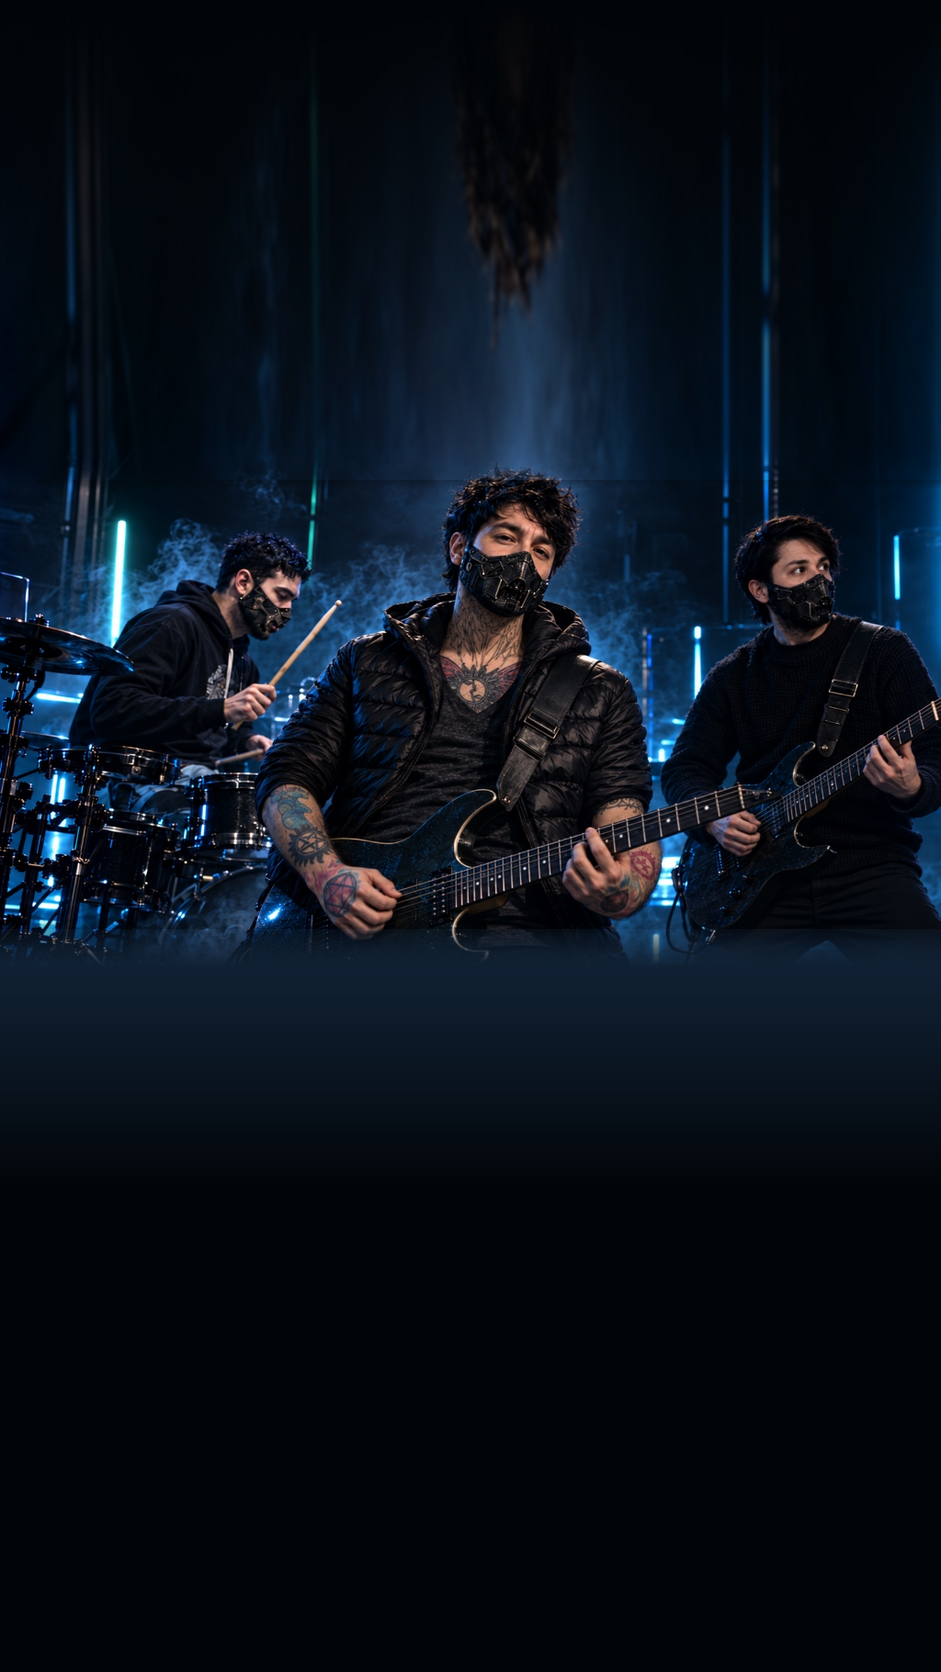
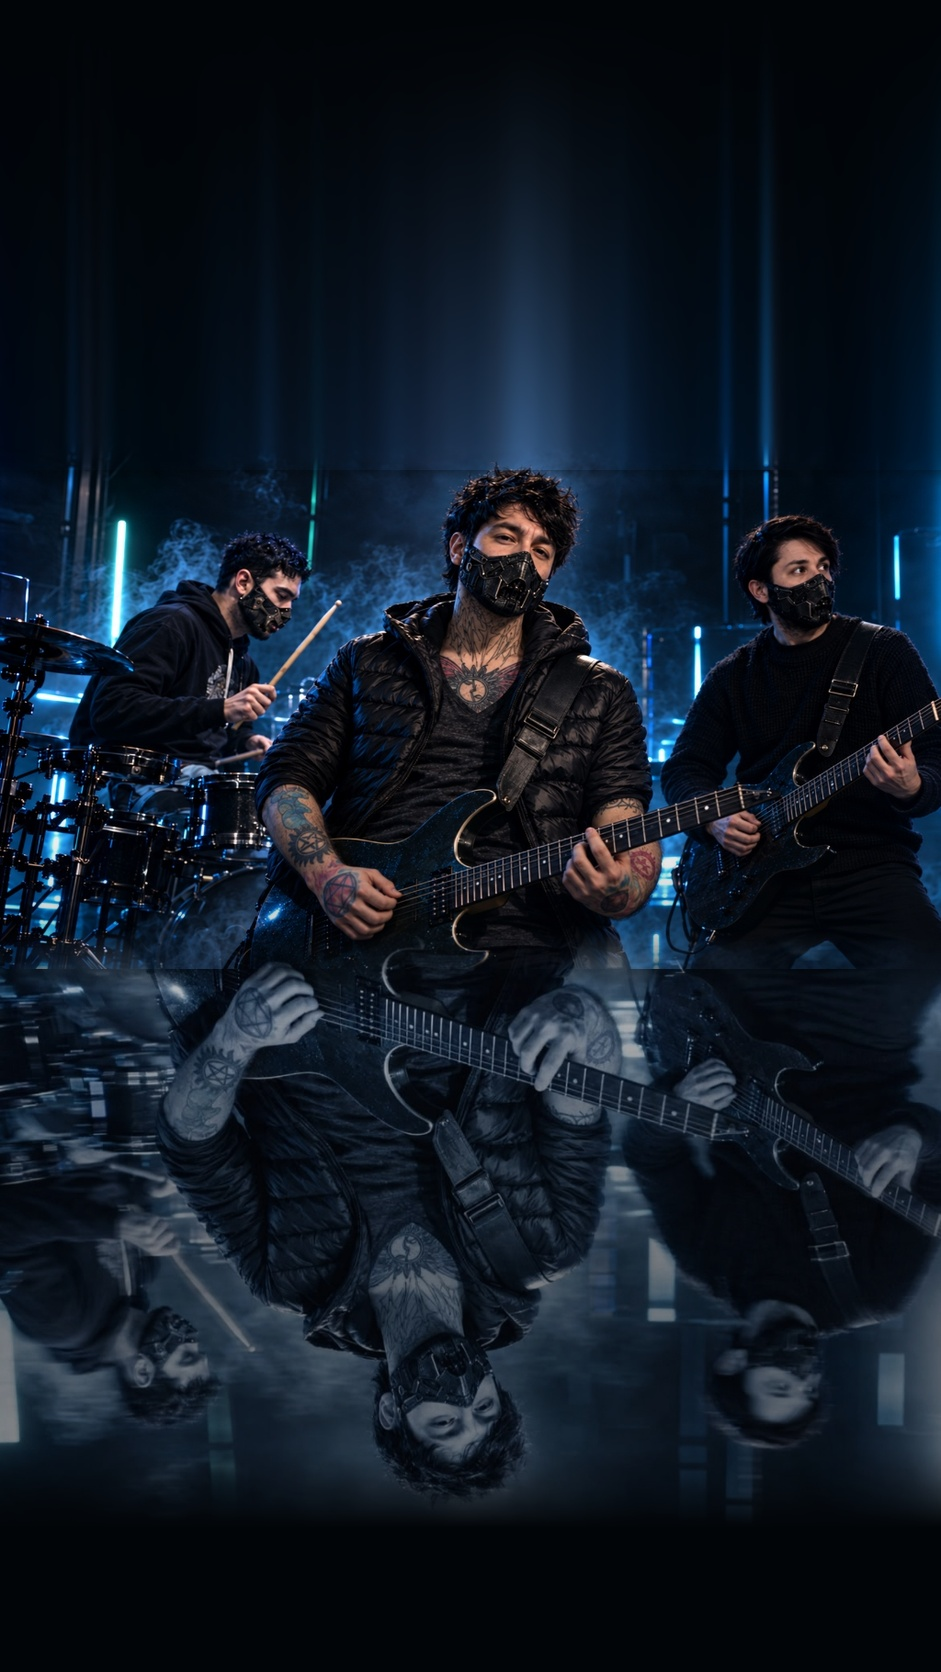
Update mobile hero background with Side B inverted reflection using blue band photo and bump cache to v16

diff --git a/index.html b/index.html
@@ -86,9 +86,9 @@
         <!-- 1. Background Layer: Pure Band Photography without UI elements -->
         <div class="hero-bg-container">
             <picture class="hero-picture">
-                <source media="(max-width: 768px)" srcset="assets/hero_band_mobile.png?v=15.0">
-                <source media="(orientation: portrait) and (max-width: 1024px)" srcset="assets/hero_band_mobile.png?v=15.0">
-                <img src="assets/hero_band.jpg?v=15.0" alt="Suggestive Line Band" class="hero-band-bg">
+                <source media="(max-width: 768px)" srcset="assets/hero_band_mobile.png?v=16.0">
+                <source media="(orientation: portrait) and (max-width: 1024px)" srcset="assets/hero_band_mobile.png?v=16.0">
+                <img src="assets/hero_band.jpg?v=16.0" alt="Suggestive Line Band" class="hero-band-bg">
             </picture>
         </div>
         
@@ -440,7 +440,7 @@
     <script src="https://cdn.jsdelivr.net/npm/bootstrap@4.6.2/dist/js/bootstrap.bundle.min.js" integrity="sha384-Fy6S3B9q64WdZWQUiU+q4/2Lc9npb8tCaSX9FK7E8HnRr0Jz8D6OP9dO5Vg3Q9ct" crossorigin="anonymous"></script>
     
     <!-- Custom JavaScript Interactions -->
-    <script src="script.js?v=15.0"></script>
+    <script src="script.js?v=16.0"></script>
     
     <!-- Audio-lyrics bridge script (Optional extra for lyrics canvas) -->
     <script>
